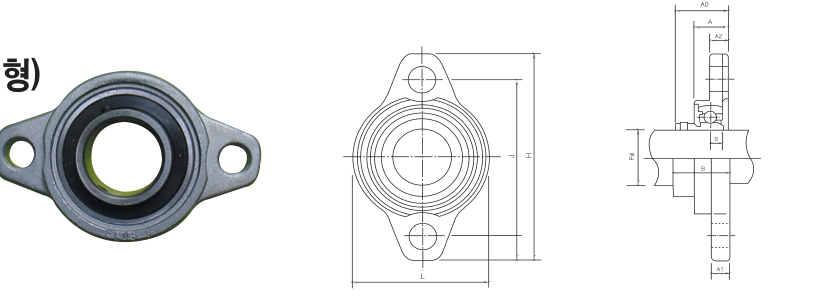
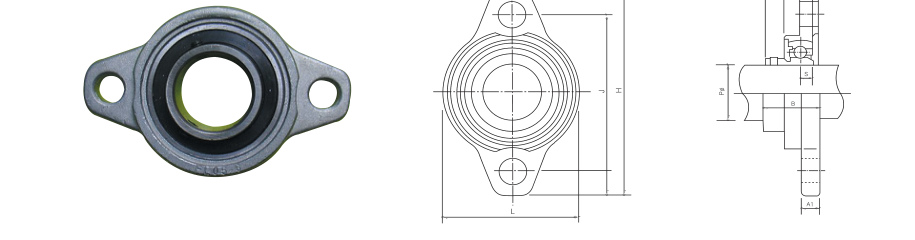
Cap diagram image display height across all pages using the unbounded style
The plain "max-width:100%; height:auto" style let naturally tall/narrow
diagrams (e.g. sealed ball bearing cross-sections) blow up to fill the full
container width, and let wide panoramic crops with blank margins display
those margins at full size. Switched all remaining occurrences (40 files) to
the height-capped "height:240px; width:auto; object-fit:contain" pattern
already used elsewhere on the site, so every diagram image renders at a
consistent, reasonable size regardless of its native aspect ratio.

diff --git a/company-homepage/unit_case.html b/company-homepage/unit_case.html
@@ -134,7 +134,7 @@
         <p class="cat-tab-panel-desc">UC(내경 표준)&middot;UK(테이퍼 내경) 베어링을 하우징에 일체화한 필로우 블록형(P) 유닛입니다. 바닥면을 볼트로 고정하는 가장 일반적인 설치 방식입니다.</p>
         <div style="background: #f4f4f2; border: 1px solid var(--border); border-radius: var(--radius-md); padding: 20px 20px 16px; margin: 4px 0 18px;">
           <p style="text-align: center; font-size: 11px; color: #999; margin: 0 0 14px;">JIB 카탈로그 규격 도면</p>
-          <img src="img/pbu_diagram.png" alt="필로우 블록형 유닛 구조 단면도" style="display: block; margin: 0 auto; max-width: 100%; height: auto;" loading="lazy">
+          <img src="img/pbu_diagram.png" alt="필로우 블록형 유닛 구조 단면도" style="display: block; margin: 0 auto; height: 240px; width: auto; max-width: 100%; object-fit: contain; image-rendering: -webkit-optimize-contrast;" loading="lazy">
           <p style="font-size: 11.5px; color: var(--text-sub); text-align: center; margin: 10px 0 0;">↑ UCP 필로우 블록 하우징 단면도 · H(중심높이)&middot;L(전장)&middot;A(설치폭)&middot;J(볼트 간격)</p>
         </div>
 
@@ -173,7 +173,7 @@
         <p class="cat-tab-panel-desc">필로우 블록형(P)보다 중심 높이가 높은 하이센터 타입입니다. 축 중심선을 설치면에서 더 높이 띄워야 할 때(배관·구조물 간섭 회피 등) 사용합니다.</p>
         <div style="background: #f4f4f2; border: 1px solid var(--border); border-radius: var(--radius-md); padding: 20px 20px 16px; margin: 4px 0 18px;">
           <p style="text-align: center; font-size: 11px; color: #999; margin: 0 0 14px;">JIB 카탈로그 규격 도면</p>
-          <img src="img/ucph_diagram.png" alt="PH형 유닛 구조 단면도" style="display: block; margin: 0 auto; max-width: 100%; height: auto;" loading="lazy">
+          <img src="img/ucph_diagram.png" alt="PH형 유닛 구조 단면도" style="display: block; margin: 0 auto; height: 240px; width: auto; max-width: 100%; object-fit: contain; image-rendering: -webkit-optimize-contrast;" loading="lazy">
           <p style="font-size: 11.5px; color: var(--text-sub); text-align: center; margin: 10px 0 0;">↑ UCPH 하이센터 필로우 하우징 단면도 · H(중심높이)&middot;L(전장)&middot;A(설치폭)</p>
         </div>
 
@@ -202,7 +202,7 @@
         <p class="cat-tab-panel-desc">필로우 블록형(P)보다 폭이 좁은 내로우베이스 타입입니다. 설치 공간이 좁을 때 사용합니다.</p>
         <div style="background: #f4f4f2; border: 1px solid var(--border); border-radius: var(--radius-md); padding: 20px 20px 16px; margin: 4px 0 18px;">
           <p style="text-align: center; font-size: 11px; color: #999; margin: 0 0 14px;">JIB 카탈로그 규격 도면</p>
-          <img src="img/ucpa_diagram.png" alt="PA형 유닛 구조 단면도" style="display: block; margin: 0 auto; max-width: 100%; height: auto;" loading="lazy">
+          <img src="img/ucpa_diagram.png" alt="PA형 유닛 구조 단면도" style="display: block; margin: 0 auto; height: 240px; width: auto; max-width: 100%; object-fit: contain; image-rendering: -webkit-optimize-contrast;" loading="lazy">
           <p style="font-size: 11.5px; color: var(--text-sub); text-align: center; margin: 10px 0 0;">↑ UCPA 내로우베이스 필로우 하우징 단면도 · H(중심높이)&middot;L(전장)&middot;A(설치폭)</p>
         </div>
 
@@ -234,7 +234,7 @@
         <p class="cat-tab-panel-desc">UC(내경 표준)&middot;UK(테이퍼 내경) 베어링을 사각 플랜지 하우징에 일체화한 유닛입니다. 벽면&middot;수직면에 볼트로 고정하는 설치 방식입니다.</p>
         <div style="background: #f4f4f2; border: 1px solid var(--border); border-radius: var(--radius-md); padding: 20px 20px 16px; margin: 4px 0 18px;">
           <p style="text-align: center; font-size: 11px; color: #999; margin: 0 0 14px;">JIB 카탈로그 규격 도면</p>
-          <img src="img/flu_diagram.png" alt="플랜지형 유닛 구조 단면도" style="display: block; margin: 0 auto; max-width: 100%; height: auto;" loading="lazy">
+          <img src="img/flu_diagram.png" alt="플랜지형 유닛 구조 단면도" style="display: block; margin: 0 auto; height: 240px; width: auto; max-width: 100%; object-fit: contain; image-rendering: -webkit-optimize-contrast;" loading="lazy">
           <p style="font-size: 11.5px; color: var(--text-sub); text-align: center; margin: 10px 0 0;">↑ UCF 사각 플랜지 하우징 단면도 · L(사각변)&middot;A(전체 두께)&middot;J(볼트 간격)</p>
         </div>
 
@@ -273,7 +273,7 @@
         <p class="cat-tab-panel-desc">UC 베어링을 장원형(타원형) 플랜지 하우징에 일체화한 일반형 유닛입니다. 볼트 구멍 2개로 고정하는 소형&middot;경량 설치 방식입니다. JIB 카탈로그에서는 이를 세부적으로 FA/FB 두 타입으로도 구분합니다.</p>
         <div style="background: #f4f4f2; border: 1px solid var(--border); border-radius: var(--radius-md); padding: 20px 20px 16px; margin: 4px 0 18px;">
           <p style="text-align: center; font-size: 11px; color: #999; margin: 0 0 14px;">JIB 카탈로그 규격 도면</p>
-          <img src="img/ucfl_diagram.png" alt="FL형 유닛 구조 단면도" style="display: block; margin: 0 auto; max-width: 100%; height: auto;" loading="lazy">
+          <img src="img/ucfl_diagram.png" alt="FL형 유닛 구조 단면도" style="display: block; margin: 0 auto; height: 240px; width: auto; max-width: 100%; object-fit: contain; image-rendering: -webkit-optimize-contrast;" loading="lazy">
           <p style="font-size: 11.5px; color: var(--text-sub); text-align: center; margin: 10px 0 0;">↑ UCFL 장원형 플랜지 하우징 단면도 · H(전장)&middot;L(폭)&middot;J(볼트 간격)</p>
         </div>
 
@@ -312,7 +312,7 @@
         <p class="cat-tab-panel-desc">UC 베어링을 장원형(타원형) 플랜지 하우징에 일체화한 A타입 유닛입니다. 사각 플랜지(F)보다 볼트 구멍 2개로 간결하게 고정하는 소형&middot;경량 설치 방식입니다.</p>
         <div style="background: #f4f4f2; border: 1px solid var(--border); border-radius: var(--radius-md); padding: 20px 20px 16px; margin: 4px 0 18px;">
           <p style="text-align: center; font-size: 11px; color: #999; margin: 0 0 14px;">JIB 카탈로그 규격 도면(A타입)</p>
-          <img src="img/ucfa_diagram.png" alt="FA형 유닛 구조 단면도" style="display: block; margin: 0 auto; max-width: 100%; height: auto;" loading="lazy">
+          <img src="img/ucfa_diagram.png" alt="FA형 유닛 구조 단면도" style="display: block; margin: 0 auto; height: 240px; width: auto; max-width: 100%; object-fit: contain; image-rendering: -webkit-optimize-contrast;" loading="lazy">
           <p style="font-size: 11.5px; color: var(--text-sub); text-align: center; margin: 10px 0 0;">↑ UCFA 장원형 플랜지(A타입) 하우징 단면도 · H(전고)&middot;L(전장)&middot;J(볼트 간격)</p>
         </div>
 
@@ -342,7 +342,7 @@
         <p class="cat-tab-panel-desc">UC 베어링을 장원형(타원형) 플랜지 하우징에 일체화한 B타입 유닛입니다. A타입과 같은 2홀 장원형이지만 볼트 배치&middot;하우징 세부 형상이 다릅니다.</p>
         <div style="background: #f4f4f2; border: 1px solid var(--border); border-radius: var(--radius-md); padding: 20px 20px 16px; margin: 4px 0 18px;">
           <p style="text-align: center; font-size: 11px; color: #999; margin: 0 0 14px;">JIB 카탈로그 규격 도면(B타입)</p>
-          <img src="img/ucfb_diagram.png" alt="FB형 유닛 구조 단면도" style="display: block; margin: 0 auto; max-width: 100%; height: auto;" loading="lazy">
+          <img src="img/ucfb_diagram.png" alt="FB형 유닛 구조 단면도" style="display: block; margin: 0 auto; height: 240px; width: auto; max-width: 100%; object-fit: contain; image-rendering: -webkit-optimize-contrast;" loading="lazy">
           <p style="font-size: 11.5px; color: var(--text-sub); text-align: center; margin: 10px 0 0;">↑ UCFB 장원형 플랜지(B타입) 하우징 단면도 · H(전고)&middot;L(전장)&middot;J(볼트 간격)</p>
         </div>
 
@@ -371,7 +371,7 @@
         <p class="cat-tab-panel-desc">UC 베어링을 사각 피벗(단차) 플랜지 하우징에 일체화한 유닛입니다. 사각 플랜지(F)와 비슷하지만 플랜지 단차가 설치면에 파고들어 위치를 잡아주는 구조입니다. 중형(3 시리즈)만 공급됩니다.</p>
         <div style="background: #f4f4f2; border: 1px solid var(--border); border-radius: var(--radius-md); padding: 20px 20px 16px; margin: 4px 0 18px;">
           <p style="text-align: center; font-size: 11px; color: #999; margin: 0 0 14px;">JIB 카탈로그 규격 도면</p>
-          <img src="img/ucfs_diagram.png" alt="FS형 유닛 구조 단면도" style="display: block; margin: 0 auto; max-width: 100%; height: auto;" loading="lazy">
+          <img src="img/ucfs_diagram.png" alt="FS형 유닛 구조 단면도" style="display: block; margin: 0 auto; height: 240px; width: auto; max-width: 100%; object-fit: contain; image-rendering: -webkit-optimize-contrast;" loading="lazy">
           <p style="font-size: 11.5px; color: var(--text-sub); text-align: center; margin: 10px 0 0;">↑ UCFS 사각 피벗 플랜지 하우징 단면도 · L(사각변)&middot;H3(피벗 외경)&middot;J(볼트 간격)</p>
         </div>
 
@@ -414,7 +414,7 @@
         <p class="cat-tab-panel-desc">UC 베어링을 원형 플랜지 하우징에 일체화한 유닛입니다. 사각(F)&middot;장원형(FA/FB) 플랜지와 달리 볼트 구멍 4개가 원형으로 배치되어 축 중심을 기준으로 방향에 상관없이 설치할 수 있습니다.</p>
         <div style="background: #f4f4f2; border: 1px solid var(--border); border-radius: var(--radius-md); padding: 20px 20px 16px; margin: 4px 0 18px;">
           <p style="text-align: center; font-size: 11px; color: #999; margin: 0 0 14px;">JIB 카탈로그 규격 도면</p>
-          <img src="img/ucfc_diagram.png" alt="FC형 유닛 구조 단면도" style="display: block; margin: 0 auto; max-width: 100%; height: auto;" loading="lazy">
+          <img src="img/ucfc_diagram.png" alt="FC형 유닛 구조 단면도" style="display: block; margin: 0 auto; height: 240px; width: auto; max-width: 100%; object-fit: contain; image-rendering: -webkit-optimize-contrast;" loading="lazy">
           <p style="font-size: 11.5px; color: var(--text-sub); text-align: center; margin: 10px 0 0;">↑ UCFC 원형 플랜지 하우징 단면도 · &phi;L(전장)&middot;&phi;H3(플랜지 외경)&middot;&phi;J(볼트 간격)</p>
         </div>
 
@@ -451,7 +451,7 @@
         <p class="cat-tab-panel-desc">플랜지나 받침대 없이 원통형 슬리브(카트리지) 형태로만 된 하우징입니다. 별도 설계된 지지 구조물에 끼워 넣어 사용하며, 기계 프레임에 직접 인서트하는 방식에 적합합니다.</p>
         <div style="background: #f4f4f2; border: 1px solid var(--border); border-radius: var(--radius-md); padding: 20px 20px 16px; margin: 4px 0 18px;">
           <p style="text-align: center; font-size: 11px; color: #999; margin: 0 0 14px;">JIB 카탈로그 규격 도면</p>
-          <img src="img/ucc_diagram.png" alt="카트리지형(C) 유닛 구조 단면도" style="display: block; margin: 0 auto; max-width: 100%; height: auto;" loading="lazy">
+          <img src="img/ucc_diagram.png" alt="카트리지형(C) 유닛 구조 단면도" style="display: block; margin: 0 auto; height: 240px; width: auto; max-width: 100%; object-fit: contain; image-rendering: -webkit-optimize-contrast;" loading="lazy">
           <p style="font-size: 11.5px; color: var(--text-sub); text-align: center; margin: 10px 0 0;">↑ UCC 카트리지 하우징 단면도 · &phi;H(외경)&middot;A(전장)</p>
         </div>
 
@@ -490,7 +490,7 @@
         <p class="cat-tab-panel-desc">필로우 블록 하우징에 편심고정링(HC 베어링)이 일체화된 유닛입니다. P/PH/PA와 달리 UC/UK 인서트가 아닌 전용 HC 베어링을 사용합니다.</p>
         <div style="background: #f4f4f2; border: 1px solid var(--border); border-radius: var(--radius-md); padding: 20px 20px 16px; margin: 4px 0 18px;">
           <p style="text-align: center; font-size: 11px; color: #999; margin: 0 0 14px;">JIB 카탈로그 규격 도면</p>
-          <img src="img/uchcp_diagram.png" alt="HCP형 유닛 구조 단면도" style="display: block; margin: 0 auto; max-width: 100%; height: auto;" loading="lazy">
+          <img src="img/uchcp_diagram.png" alt="HCP형 유닛 구조 단면도" style="display: block; margin: 0 auto; height: 240px; width: auto; max-width: 100%; object-fit: contain; image-rendering: -webkit-optimize-contrast;" loading="lazy">
           <p style="font-size: 11.5px; color: var(--text-sub); text-align: center; margin: 10px 0 0;">↑ HCP 편심고정링 필로우 하우징 단면도 · H(중심높이)&middot;L(전장)</p>
         </div>
         <div class="field" style="max-width: 360px; margin-bottom: 16px;">
@@ -520,7 +520,7 @@
         <p class="cat-tab-panel-desc">경량&middot;소형 필로우 하우징(L타입)으로, SA(편심고정링)&middot;SB(세트스크류) 인서트 베어링과 조합합니다. P형보다 작고 가벼워 소형 기계에 적합합니다.</p>
         <div style="background: #f4f4f2; border: 1px solid var(--border); border-radius: var(--radius-md); padding: 20px 20px 16px; margin: 4px 0 18px;">
           <p style="text-align: center; font-size: 11px; color: #999; margin: 0 0 14px;">JIB 카탈로그 규격 도면</p>
-          <img src="img/salp_diagram.png" alt="SALP·SBLP형 유닛 구조 단면도" style="display: block; margin: 0 auto; max-width: 100%; height: auto;" loading="lazy">
+          <img src="img/salp_diagram.png" alt="SALP·SBLP형 유닛 구조 단면도" style="display: block; margin: 0 auto; height: 240px; width: auto; max-width: 100%; object-fit: contain; image-rendering: -webkit-optimize-contrast;" loading="lazy">
           <p style="font-size: 11.5px; color: var(--text-sub); text-align: center; margin: 10px 0 0;">↑ SALP&middot;SBLP 경량 필로우 하우징 단면도 · H(중심높이)&middot;L(전장)</p>
         </div>
         <div class="field" style="max-width: 360px; margin-bottom: 16px;">
@@ -547,7 +547,7 @@
         <p class="cat-tab-panel-desc">프레스 강판으로 제작한 경량 필로우 하우징입니다. 주철 대비 가볍고 저렴하며, SA&middot;SB 인서트 베어링과 조합합니다.</p>
         <div style="background: #f4f4f2; border: 1px solid var(--border); border-radius: var(--radius-md); padding: 20px 20px 16px; margin: 4px 0 18px;">
           <p style="text-align: center; font-size: 11px; color: #999; margin: 0 0 14px;">JIB 카탈로그 규격 도면</p>
-          <img src="img/sapp_diagram.png" alt="SAPP·SBPP형 유닛 구조 단면도" style="display: block; margin: 0 auto; max-width: 100%; height: auto;" loading="lazy">
+          <img src="img/sapp_diagram.png" alt="SAPP·SBPP형 유닛 구조 단면도" style="display: block; margin: 0 auto; height: 240px; width: auto; max-width: 100%; object-fit: contain; image-rendering: -webkit-optimize-contrast;" loading="lazy">
           <p style="font-size: 11.5px; color: var(--text-sub); text-align: center; margin: 10px 0 0;">↑ SAPP&middot;SBPP 프레스강판 필로우 하우징 단면도 · H(중심높이)&middot;L(전장)</p>
         </div>
         <div class="field" style="max-width: 360px; margin-bottom: 16px;">
@@ -573,7 +573,7 @@
         <p class="cat-tab-panel-desc">천장&middot;구조물에 매다는 행거(hanger) 타입 유닛입니다. 상단에 관용나사(PF) 로드 체결부가 있어 수직으로 매달아 사용합니다.</p>
         <div style="background: #f4f4f2; border: 1px solid var(--border); border-radius: var(--radius-md); padding: 20px 20px 16px; margin: 4px 0 18px;">
           <p style="text-align: center; font-size: 11px; color: #999; margin: 0 0 14px;">JIB 카탈로그 규격 도면</p>
-          <img src="img/ucha_diagram.png" alt="행거형(HA) 유닛 구조 단면도" style="display: block; margin: 0 auto; max-width: 100%; height: auto;" loading="lazy">
+          <img src="img/ucha_diagram.png" alt="행거형(HA) 유닛 구조 단면도" style="display: block; margin: 0 auto; height: 240px; width: auto; max-width: 100%; object-fit: contain; image-rendering: -webkit-optimize-contrast;" loading="lazy">
           <p style="font-size: 11.5px; color: var(--text-sub); text-align: center; margin: 10px 0 0;">↑ UCHA 행거 하우징 단면도 · H1(전고)&middot;L(전장)</p>
         </div>
         <div class="field" style="max-width: 360px; margin-bottom: 16px;">
@@ -606,7 +606,7 @@
         <p class="cat-tab-panel-desc">경량&middot;소형 오벌(장원형) 플랜지 하우징(L타입)으로, SA&middot;SB 인서트 베어링과 조합합니다.</p>
         <div style="background: #f4f4f2; border: 1px solid var(--border); border-radius: var(--radius-md); padding: 20px 20px 16px; margin: 4px 0 18px;">
           <p style="text-align: center; font-size: 11px; color: #999; margin: 0 0 14px;">JIB 카탈로그 규격 도면</p>
-          <img src="img/salf_diagram.png" alt="SALF·SBLF형 유닛 구조 단면도" style="display: block; margin: 0 auto; max-width: 100%; height: auto;" loading="lazy">
+          <img src="img/salf_diagram.png" alt="SALF·SBLF형 유닛 구조 단면도" style="display: block; margin: 0 auto; height: 240px; width: auto; max-width: 100%; object-fit: contain; image-rendering: -webkit-optimize-contrast;" loading="lazy">
           <p style="font-size: 11.5px; color: var(--text-sub); text-align: center; margin: 10px 0 0;">↑ SALF&middot;SBLF 경량 오벌 플랜지 하우징 단면도 · H(전장)&middot;L(폭)</p>
         </div>
         <div class="field" style="max-width: 360px; margin-bottom: 16px;">
@@ -632,7 +632,7 @@
         <p class="cat-tab-panel-desc">프레스 강판으로 제작한 경량 오벌 플랜지 하우징입니다. SA&middot;SB 인서트 베어링과 조합합니다.</p>
         <div style="background: #f4f4f2; border: 1px solid var(--border); border-radius: var(--radius-md); padding: 20px 20px 16px; margin: 4px 0 18px;">
           <p style="text-align: center; font-size: 11px; color: #999; margin: 0 0 14px;">JIB 카탈로그 규격 도면</p>
-          <img src="img/sapfl_diagram.png" alt="SAPFL·SBPFL형 유닛 구조 단면도" style="display: block; margin: 0 auto; max-width: 100%; height: auto;" loading="lazy">
+          <img src="img/sapfl_diagram.png" alt="SAPFL·SBPFL형 유닛 구조 단면도" style="display: block; margin: 0 auto; height: 240px; width: auto; max-width: 100%; object-fit: contain; image-rendering: -webkit-optimize-contrast;" loading="lazy">
           <p style="font-size: 11.5px; color: var(--text-sub); text-align: center; margin: 10px 0 0;">↑ SAPFL&middot;SBPFL 프레스강판 오벌 플랜지 하우징 단면도 · H(전장)&middot;L(폭)</p>
         </div>
         <div class="field" style="max-width: 360px; margin-bottom: 16px;">
@@ -658,7 +658,7 @@
         <p class="cat-tab-panel-desc">경량&middot;소형 원형 플랜지 하우징(C타입)으로, SA 인서트 베어링(편심고정링)과 조합합니다. FC형보다 작고 가볍습니다.</p>
         <div style="background: #f4f4f2; border: 1px solid var(--border); border-radius: var(--radius-md); padding: 20px 20px 16px; margin: 4px 0 18px;">
           <p style="text-align: center; font-size: 11px; color: #999; margin: 0 0 14px;">JIB 카탈로그 규격 도면</p>
-          <img src="img/safcc_diagram.png" alt="SAFCC·SBFCC형 유닛 구조 단면도" style="display: block; margin: 0 auto; max-width: 100%; height: auto;" loading="lazy">
+          <img src="img/safcc_diagram.png" alt="SAFCC·SBFCC형 유닛 구조 단면도" style="display: block; margin: 0 auto; height: 240px; width: auto; max-width: 100%; object-fit: contain; image-rendering: -webkit-optimize-contrast;" loading="lazy">
           <p style="font-size: 11.5px; color: var(--text-sub); text-align: center; margin: 10px 0 0;">↑ SAFCC&middot;SBFCC 경량 원형 플랜지 하우징 단면도 · &phi;L(전장)&middot;&phi;H3(플랜지 외경)</p>
         </div>
         <div class="field" style="max-width: 360px; margin-bottom: 16px;">
@@ -688,7 +688,7 @@
         <p class="cat-tab-panel-desc">프레스 강판으로 제작한 경량 원형 플랜지 하우징입니다. SA&middot;SB 인서트 베어링과 조합합니다.</p>
         <div style="background: #f4f4f2; border: 1px solid var(--border); border-radius: var(--radius-md); padding: 20px 20px 16px; margin: 4px 0 18px;">
           <p style="text-align: center; font-size: 11px; color: #999; margin: 0 0 14px;">JIB 카탈로그 규격 도면</p>
-          <img src="img/sapf_diagram.png" alt="SAPF·SBPF형 유닛 구조 단면도" style="display: block; margin: 0 auto; max-width: 100%; height: auto;" loading="lazy">
+          <img src="img/sapf_diagram.png" alt="SAPF·SBPF형 유닛 구조 단면도" style="display: block; margin: 0 auto; height: 240px; width: auto; max-width: 100%; object-fit: contain; image-rendering: -webkit-optimize-contrast;" loading="lazy">
           <p style="font-size: 11.5px; color: var(--text-sub); text-align: center; margin: 10px 0 0;">↑ SAPF&middot;SBPF 프레스강판 원형 플랜지 하우징 단면도 · &phi;H(전장)&middot;A(단차 폭)</p>
         </div>
         <div class="field" style="max-width: 360px; margin-bottom: 16px;">
@@ -714,7 +714,7 @@
         <p class="cat-tab-panel-desc">UC(내경 표준)&middot;UK(테이퍼 내경) 베어링을 원통형 테이크업 하우징에 일체화한 유닛입니다. 레일을 따라 위치 조정이 가능해 체인&middot;벨트 장력 조절 등에 사용됩니다.</p>
         <div style="background: #f4f4f2; border: 1px solid var(--border); border-radius: var(--radius-md); padding: 20px 20px 16px; margin: 4px 0 18px;">
           <p style="text-align: center; font-size: 11px; color: #999; margin: 0 0 14px;">JIB 카탈로그 규격 도면</p>
-          <img src="img/plb_diagram.png" alt="테이크업형 유닛 구조 단면도" style="display: block; margin: 0 auto; max-width: 100%; height: auto;" loading="lazy">
+          <img src="img/plb_diagram.png" alt="테이크업형 유닛 구조 단면도" style="display: block; margin: 0 auto; height: 240px; width: auto; max-width: 100%; object-fit: contain; image-rendering: -webkit-optimize-contrast;" loading="lazy">
           <p style="font-size: 11.5px; color: var(--text-sub); text-align: center; margin: 10px 0 0;">↑ UCT 테이크업 하우징 단면도 · H(중심높이)&middot;L(조정 슬롯 포함 전장)</p>
         </div>
 

diff --git a/company-homepage/small_unit.html b/company-homepage/small_unit.html
@@ -114,7 +114,7 @@
         <p class="cat-tab-panel-desc">USCP(볼베어링형)&middot;USBP(UC베어링형)&middot;USAP(UC베어링 편심칼라형) 3종이 하우징 규격을 공유합니다.</p>
         <div style="background: #f4f4f2; border: 1px solid var(--border); border-radius: var(--radius-md); padding: 20px 20px 16px; margin: 4px 0 18px;">
           <p style="text-align: center; font-size: 11px; color: #999; margin: 0 0 14px;">당사 SWS 카탈로그 규격 도면</p>
-          <img src="img/small_unit_pillow.png" alt="필로우 블록형(USCP/USBP/USAP) 구조 단면도" style="display: block; margin: 0 auto; max-width: 100%; height: auto;" loading="lazy">
+          <img src="img/small_unit_pillow.png" alt="필로우 블록형(USCP/USBP/USAP) 구조 단면도" style="display: block; margin: 0 auto; height: 240px; width: auto; max-width: 100%; object-fit: contain; image-rendering: -webkit-optimize-contrast;" loading="lazy">
           <p style="font-size: 11.5px; color: var(--text-sub); text-align: center; margin: 10px 0 0;">H&middot;L=중심높이&middot;전장 · J&middot;A=볼트 간격&middot;설치폭 · N=볼트 지름 · H1&middot;H2=단차 높이</p>
         </div>
         <div class="field" style="max-width: 320px; margin-bottom: 16px;">
@@ -142,7 +142,7 @@
         <p class="cat-tab-panel-desc">USCFL(볼베어링형)&middot;USBFL(UC베어링형)&middot;USAFL(UC베어링 편심칼라형) 3종이 하우징 규격을 공유합니다.</p>
         <div style="background: #f4f4f2; border: 1px solid var(--border); border-radius: var(--radius-md); padding: 20px 20px 16px; margin: 4px 0 18px;">
           <p style="text-align: center; font-size: 11px; color: #999; margin: 0 0 14px;">당사 SWS 카탈로그 규격 도면</p>
-          <img src="img/small_unit_flange.png" alt="플랜지형(USCFL/USBFL/USAFL) 구조 단면도" style="display: block; margin: 0 auto; max-width: 100%; height: auto;" loading="lazy">
+          <img src="img/small_unit_flange.png" alt="플랜지형(USCFL/USBFL/USAFL) 구조 단면도" style="display: block; margin: 0 auto; height: 240px; width: auto; max-width: 100%; object-fit: contain; image-rendering: -webkit-optimize-contrast;" loading="lazy">
           <p style="font-size: 11.5px; color: var(--text-sub); text-align: center; margin: 10px 0 0;">B&middot;S=축 폭&middot;칼라 두께 · C1&middot;Zs=모따기&middot;전고</p>
         </div>
         <div class="field" style="max-width: 320px; margin-bottom: 16px;">

diff --git a/company-homepage/double_row_angular_contact.html b/company-homepage/double_row_angular_contact.html
@@ -106,7 +106,7 @@
       </div>
       <div style="background: #f4f4f2; border: 1px solid var(--border); border-radius: var(--radius-md); padding: 20px 20px 16px; margin: 4px 0 18px;">
         <p style="text-align: center; font-size: 11px; color: #999; margin: 0 0 14px;">당사 SWS 카탈로그 규격 도면</p>
-        <img src="img/double_row_angular_contact.png" alt="구조 단면도" style="display: block; margin: 0 auto; max-width: 100%; height: auto;" loading="lazy">
+        <img src="img/double_row_angular_contact.png" alt="구조 단면도" style="display: block; margin: 0 auto; height: 240px; width: auto; max-width: 100%; object-fit: contain; image-rendering: -webkit-optimize-contrast;" loading="lazy">
         <p style="font-size: 11.5px; color: var(--text-sub); text-align: center; margin: 10px 0 0;">d(내경) · D(외경) · 공차(d/D) · B(폭)<br /><span style="color: var(--text-faint);">도면의 복렬&middot;배면조합(DB)&middot;정면조합(DF)&middot;직렬조합(DT)은 앵귤러 콘택트 볼 베어링의 대표적인 내부 배열 방식을 보여주는 참고도이며, 형번 자체에 DB/DF/DT가 붙지는 않습니다 — 아래 표는 그중 고정 조립되어 공급되는 32&middot;33&middot;42&middot;43 계열입니다.</span></p>
       </div>
 

diff --git a/company-homepage/cylindrical_roller.html b/company-homepage/cylindrical_roller.html
@@ -107,7 +107,7 @@
       </div>
       <div style="background: #f4f4f2; border: 1px solid var(--border); border-radius: var(--radius-md); padding: 20px 20px 16px; margin: 4px 0 18px;">
         <p style="text-align: center; font-size: 11px; color: #999; margin: 0 0 14px;">당사 SWS 카탈로그 규격 도면</p>
-        <img src="img/cylindrical_roller.png" alt="구조 단면도 (좌측부터 NU·NJ·NUP·N·NF형)" style="display: block; margin: 0 auto; max-width: 100%; height: auto;" loading="lazy">
+        <img src="img/cylindrical_roller.png" alt="구조 단면도 (좌측부터 NU·NJ·NUP·N·NF형)" style="display: block; margin: 0 auto; height: 240px; width: auto; max-width: 100%; object-fit: contain; image-rendering: -webkit-optimize-contrast;" loading="lazy">
         <p style="font-size: 11.5px; color: var(--text-sub); text-align: center; margin: 10px 0 0;">d(내경) · D(외경) · 공차(d/D) · B(폭)<br /><span style="color: var(--text-faint);">좌측부터 NU&middot;NJ&middot;NUP형(외륜에 궤도턱, F<sub>w</sub>=내륜 궤도면 지름) · N&middot;NF형(내륜에 궤도턱, E<sub>w</sub>=외륜 궤도면 지름) &mdash; NJ&middot;NUP는 NU와, NF는 N과 외경(D)이 같아 원본 도면에 D 표기가 생략되어 있습니다.</span></p>
       </div>
 

diff --git a/company-homepage/taper_roller.html b/company-homepage/taper_roller.html
@@ -106,7 +106,7 @@
       </div>
       <div style="background: #f4f4f2; border: 1px solid var(--border); border-radius: var(--radius-md); padding: 20px 20px 16px; margin: 4px 0 18px;">
         <p style="text-align: center; font-size: 11px; color: #999; margin: 0 0 14px;">당사 SWS 카탈로그 규격 도면</p>
-        <img src="img/taper_roller.png" alt="구조 단면도" style="display: block; margin: 0 auto; max-width: 100%; height: auto;" loading="lazy">
+        <img src="img/taper_roller.png" alt="구조 단면도" style="display: block; margin: 0 auto; height: 240px; width: auto; max-width: 100%; object-fit: contain; image-rendering: -webkit-optimize-contrast;" loading="lazy">
         <p style="font-size: 11.5px; color: var(--text-sub); text-align: center; margin: 10px 0 0;">d(내경) · D(외경) · 공차(d/D) · T · B · C<br /><span style="color: var(--text-faint);">형번 끝의 &ldquo;J&rdquo;는 JIS 개정 규격(현재 주력 생산)을, &ldquo;DJ&rdquo;(D+J)는 J형과 d&middot;D&middot;T는 동일하나 내륜(콘) 폭 C가 좁은 협폭 콘 타입을 의미합니다 &mdash; 예: 30315J(C=31)와 30315DJ(C=26)는 C만 다릅니다.</span></p>
       </div>
 

diff --git a/company-homepage/link_ball.html b/company-homepage/link_ball.html
@@ -179,7 +179,7 @@
       <p style="font-size: 12.5px; color: var(--text-sub); margin: 0 0 10px;">ZBL(RBL)과 달리 양쪽 모두 축 방향으로 나사가 나오는 구조로, 당사 SWS 카탈로그에는 &ldquo;수주 대응품&rdquo;(주문 제작)으로 별도 수록되어 있습니다.</p>
       <div style="background: #f4f4f2; border: 1px solid var(--border); border-radius: var(--radius-md); padding: 20px 20px 16px; margin: 4px 0 18px;">
         <p style="text-align: center; font-size: 11px; color: #999; margin: 0 0 14px;">당사 SWS 카탈로그 규격 도면</p>
-        <img src="img/rbi_link_ball.png" alt="RBI 구조 단면도" style="display: block; margin: 0 auto; max-width: 100%; height: auto;" loading="lazy">
+        <img src="img/rbi_link_ball.png" alt="RBI 구조 단면도" style="display: block; margin: 0 auto; height: 240px; width: auto; max-width: 100%; object-fit: contain; image-rendering: -webkit-optimize-contrast;" loading="lazy">
         <p style="font-size: 11.5px; color: var(--text-sub); text-align: center; margin: 10px 0 0;">S&middot;S1=나사 &middot; L=전장 &middot; D=하우징 외경 &middot; W=폭</p>
       </div>
 

diff --git a/company-homepage/thrust_needle.html b/company-homepage/thrust_needle.html
@@ -106,7 +106,7 @@
       </div>
       <div style="background: #f4f4f2; border: 1px solid var(--border); border-radius: var(--radius-md); padding: 20px 20px 16px; margin: 4px 0 18px;">
         <p style="text-align: center; font-size: 11px; color: #999; margin: 0 0 14px;">당사 SWS 카탈로그 규격 도면</p>
-        <img src="img/thrust_needle.png" alt="구조 단면도 (AXK/AZK · AS(NTB) · WS · GS)" style="display: block; margin: 0 auto; max-width: 100%; height: auto;" loading="lazy">
+        <img src="img/thrust_needle.png" alt="구조 단면도 (AXK/AZK · AS(NTB) · WS · GS)" style="display: block; margin: 0 auto; height: 240px; width: auto; max-width: 100%; object-fit: contain; image-rendering: -webkit-optimize-contrast;" loading="lazy">
         <p style="font-size: 11.5px; color: var(--text-sub); text-align: center; margin: 10px 0 0;">d(내경) · D(외경) · 공차(d/D) · B(폭)<br /><span style="color: var(--text-faint);">도면의 AS형은 유통명 NTB로도 불립니다.</span></p>
       </div>
 

diff --git a/company-homepage/pillow_block_unit.html b/company-homepage/pillow_block_unit.html
@@ -105,7 +105,7 @@
       </div>
       <div style="background: #f4f4f2; border: 1px solid var(--border); border-radius: var(--radius-md); padding: 20px 20px 16px; margin: 4px 0 18px;">
         <p style="text-align: center; font-size: 11px; color: #999; margin: 0 0 14px;">JIB 카탈로그 규격 도면</p>
-        <img src="img/pbu_diagram.png" alt="필로우 블록형 유닛 구조 단면도" style="display: block; margin: 0 auto; max-width: 100%; height: auto;" loading="lazy">
+        <img src="img/pbu_diagram.png" alt="필로우 블록형 유닛 구조 단면도" style="display: block; margin: 0 auto; height: 240px; width: auto; max-width: 100%; object-fit: contain; image-rendering: -webkit-optimize-contrast;" loading="lazy">
         <p style="font-size: 11.5px; color: var(--text-sub); text-align: center; margin: 10px 0 0;">↑ UCP 필로우 블록 하우징 단면도 · H(중심높이)&middot;L(전장)&middot;A(설치폭)&middot;J(볼트 간격)</p>
       </div>
 

diff --git a/company-homepage/kingpin_thrust.html b/company-homepage/kingpin_thrust.html
@@ -143,7 +143,7 @@
       </div>
       <div style="background: #fff; border: 1px solid var(--border); border-radius: var(--radius-md); padding: 20px 20px 16px; margin: 0 0 18px;">
         <p style="text-align: center; font-size: 11px; color: #999; margin: 0 0 14px;">원일베어링(WBC) 카탈로그 제품 사진</p>
-        <img src="img/kingpin_thrust.png" alt="킹핀 스러스트 베어링 제품 사진" style="display: block; margin: 0 auto; max-width: 100%; height: auto;" loading="lazy">
+        <img src="img/kingpin_thrust.png" alt="킹핀 스러스트 베어링 제품 사진" style="display: block; margin: 0 auto; height: 240px; width: auto; max-width: 100%; object-fit: contain; image-rendering: -webkit-optimize-contrast;" loading="lazy">
         <p style="font-size: 11.5px; color: var(--text-sub); text-align: center; margin: 10px 0 0;">분리형 스러스트 베어링을 조립형(일체형) 구조로 개선한 제품입니다.</p>
       </div>
 

diff --git a/company-homepage/flange_unit.html b/company-homepage/flange_unit.html
@@ -105,7 +105,7 @@
       </div>
       <div style="background: #f4f4f2; border: 1px solid var(--border); border-radius: var(--radius-md); padding: 20px 20px 16px; margin: 4px 0 18px;">
         <p style="text-align: center; font-size: 11px; color: #999; margin: 0 0 14px;">JIB 카탈로그 규격 도면</p>
-        <img src="img/flu_diagram.png" alt="플랜지형 유닛 구조 단면도" style="display: block; margin: 0 auto; max-width: 100%; height: auto;" loading="lazy">
+        <img src="img/flu_diagram.png" alt="플랜지형 유닛 구조 단면도" style="display: block; margin: 0 auto; height: 240px; width: auto; max-width: 100%; object-fit: contain; image-rendering: -webkit-optimize-contrast;" loading="lazy">
         <p style="font-size: 11.5px; color: var(--text-sub); text-align: center; margin: 10px 0 0;">↑ UCF 사각 플랜지 하우징 단면도 · L(사각변)&middot;A(전체 두께)&middot;J(볼트 간격)</p>
       </div>
 

diff --git a/company-homepage/ball_bearing_unit.html b/company-homepage/ball_bearing_unit.html
@@ -106,7 +106,7 @@
       </div>
       <div style="background: #f4f4f2; border: 1px solid var(--border); border-radius: var(--radius-md); padding: 20px 20px 16px; margin: 4px 0 18px;">
         <p style="text-align: center; font-size: 11px; color: #999; margin: 0 0 14px;">당사 SWS 카탈로그 규격 도면</p>
-        <img src="img/ball_bearing_unit.png" alt="구조 단면도" style="display: block; margin: 0 auto; max-width: 100%; height: auto;" loading="lazy">
+        <img src="img/ball_bearing_unit.png" alt="구조 단면도" style="display: block; margin: 0 auto; height: 240px; width: auto; max-width: 100%; object-fit: contain; image-rendering: -webkit-optimize-contrast;" loading="lazy">
         <p style="font-size: 11.5px; color: var(--text-sub); text-align: center; margin: 10px 0 0;">d(내경) · D(외경) · B(폭)</p>
       </div>
       <p style="font-size: 12.5px; color: var(--text-sub); margin: -8px 0 20px;">

diff --git a/company-homepage/miniature_ball.html b/company-homepage/miniature_ball.html
@@ -106,7 +106,7 @@
       </div>
       <div style="background: #f4f4f2; border: 1px solid var(--border); border-radius: var(--radius-md); padding: 20px 20px 16px; margin: 4px 0 18px;">
         <p style="text-align: center; font-size: 11px; color: #999; margin: 0 0 14px;">당사 SWS 카탈로그 규격 도면</p>
-        <img src="img/miniature_ball.png" alt="구조 단면도" style="display: block; margin: 0 auto; max-width: 100%; height: auto;" loading="lazy">
+        <img src="img/miniature_ball.png" alt="구조 단면도" style="display: block; margin: 0 auto; height: 240px; width: auto; max-width: 100%; object-fit: contain; image-rendering: -webkit-optimize-contrast;" loading="lazy">
         <p style="font-size: 11.5px; color: var(--text-sub); text-align: center; margin: 10px 0 0;">d(내경) &middot; D(외경) &middot; B/B1(폭) &middot; FD(플랜지 외경)</p>
       </div>
 
